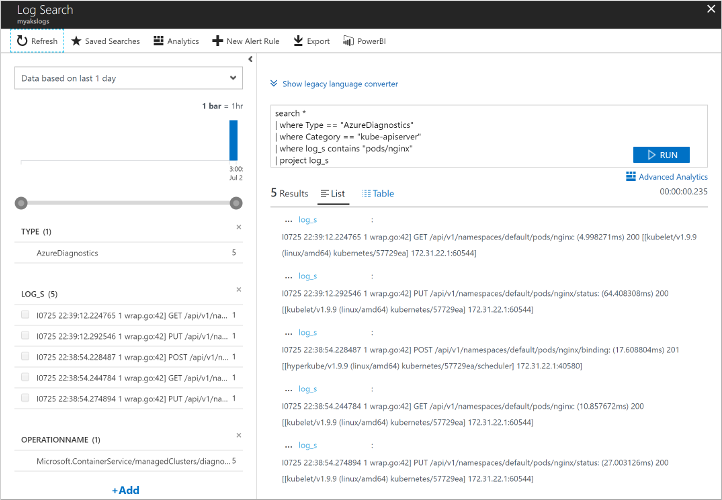
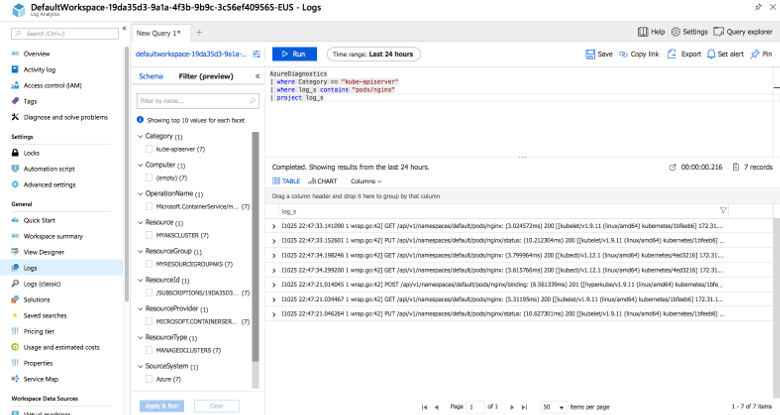
[AKS] Fixes MicrosoftDocs/azure-docs#14366

Changed region(s): [[0.0, 0.0, 1.0, 1.0], [0.8532, 0.2024, 1.0, 0.4337]]

diff --git a/articles/aks/view-master-logs.md b/articles/aks/view-master-logs.md
@@ -38,7 +38,7 @@ The following example portal screenshot shows the *Diagnostics settings* window 
 ![Enable Log Analytics workspace for Log Analytics of AKS cluster](media/view-master-logs/enable-oms-log-analytics.png)
 
 >[!NOTE]
->OMS workspaces are now referred to as Log Analytics workspaces. 
+>OMS workspaces are now referred to as Log Analytics workspaces.
 
 ## Schedule a test pod on the AKS cluster
 
@@ -78,7 +78,7 @@ It may take a few minutes for the diagnostics logs to be enabled and appear in t
 
 ![Select the Log Analytics workspace for your AKS cluster](media/view-master-logs/select-log-analytics-workspace.png)
 
-On the left-hand side, choose **Log Search**. To view the *kube-apiserver*, enter the following query in the text box:
+On the left-hand side, choose **Logs**. To view the *kube-apiserver*, enter the following query in the text box:
 
 ```
 AzureDiagnostics
